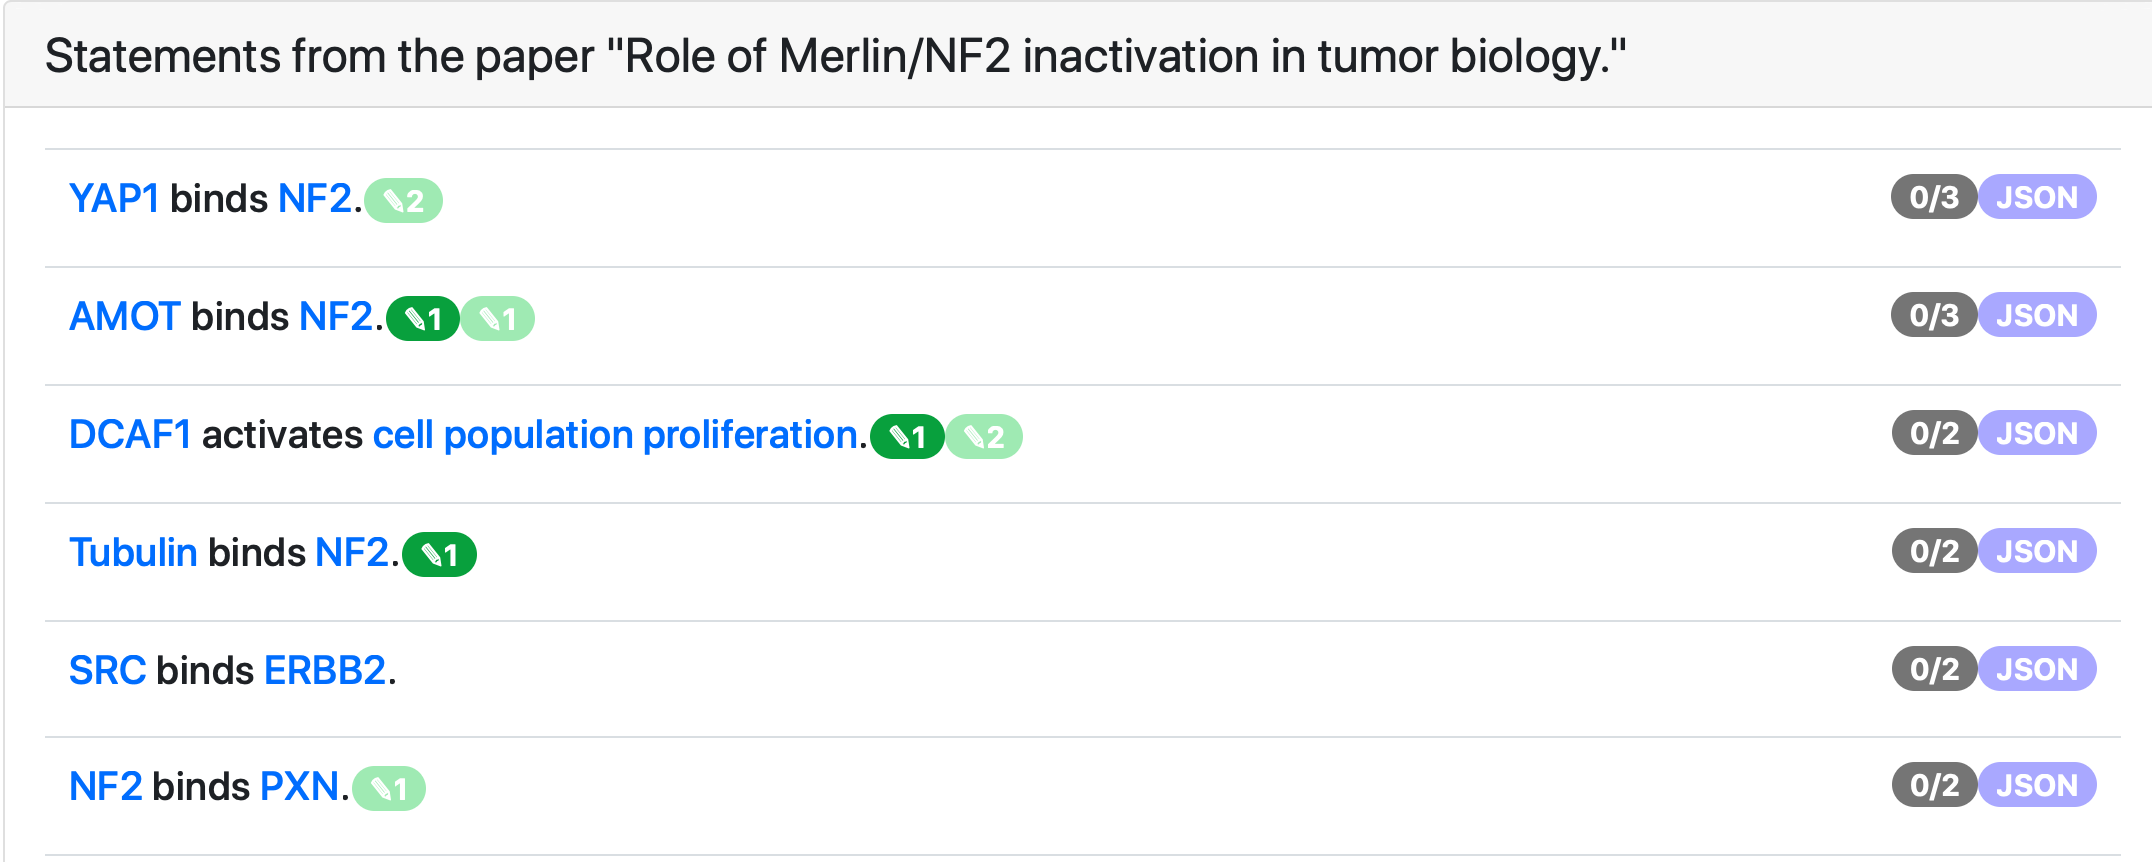
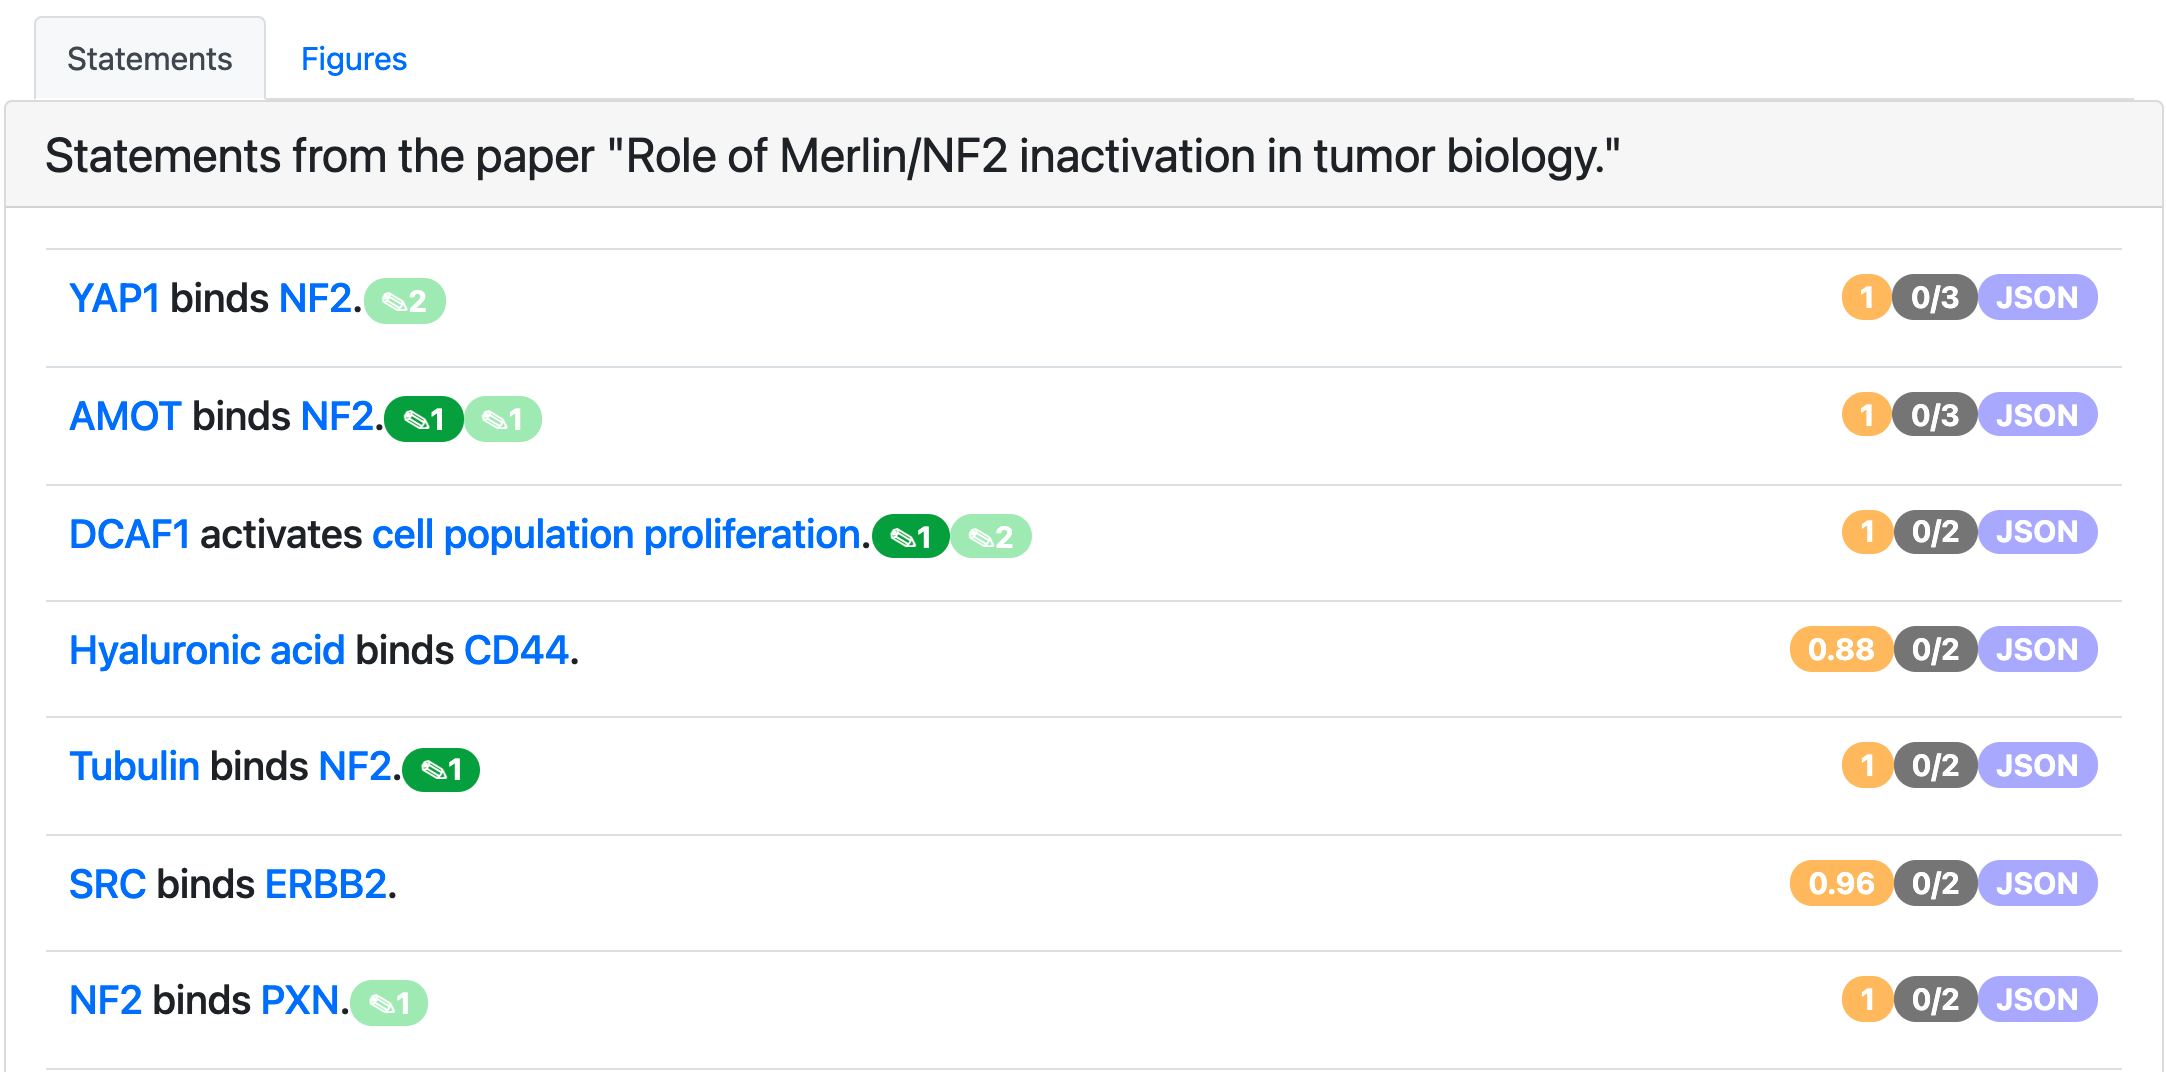
Update paper page docs

diff --git a/doc/dashboard/paper_page.rst b/doc/dashboard/paper_page.rst
@@ -12,7 +12,8 @@ needs to click on a statement. Each statement can have multiple badges that
 have the same meaning as in the statement evidence page. A blue badge with a flag
 shows have many paths this statement is a part of. A green or a red badge with a 
 pencil shows how many times this statement was curated as correct or incorrect 
-respectively. The grey badge shows the number of loaded evidences and the total 
+respectively. An orange badge shows the statement's belief score.
+The grey badge shows the number of loaded evidences and the total 
 number of evidences supporting this statement. Clicking on the JSON badge opens a 
 new page containing the JSON representation of the statement.
 
@@ -21,3 +22,6 @@ new page containing the JSON representation of the statement.
   :figwidth: 100 %
 
   *Individual paper page view*
+
+If available, the Figures tab on this page also shows figures and tables from
+this publication.
